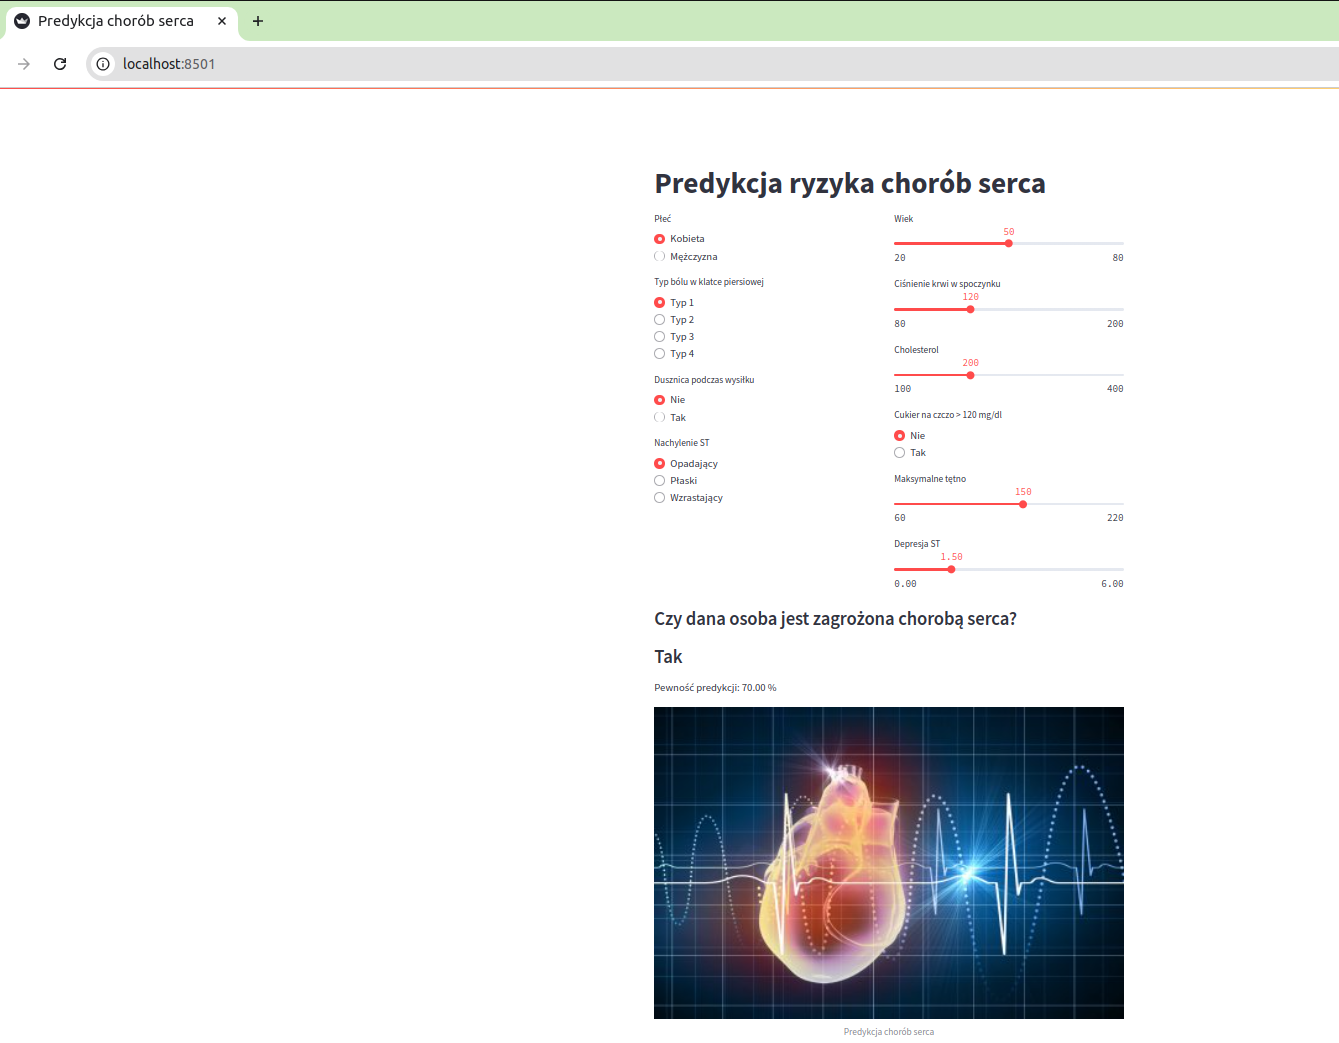
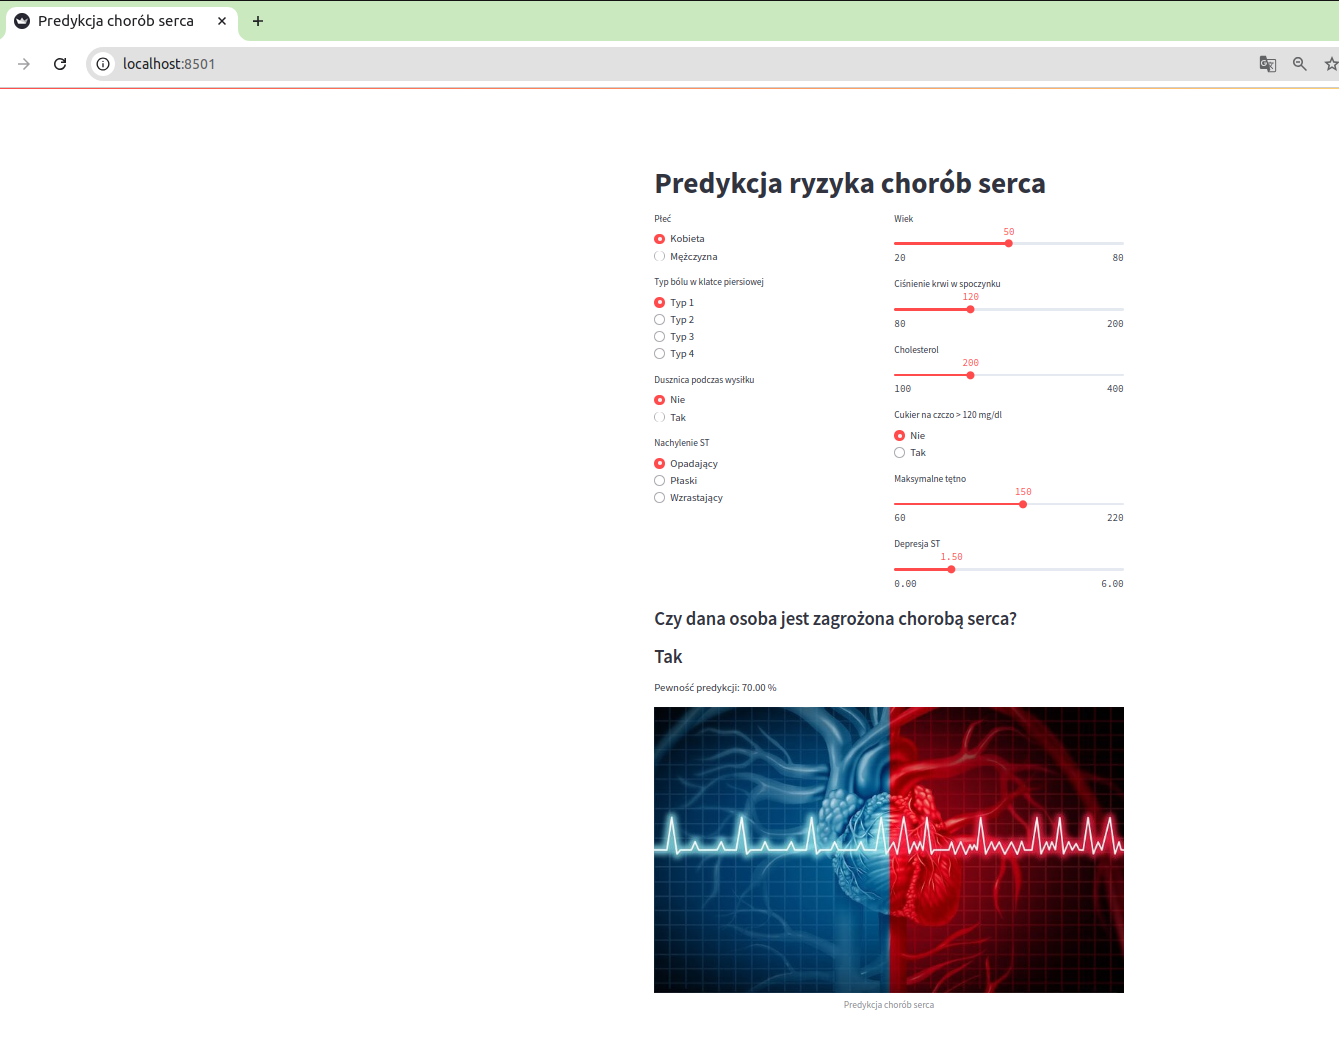
podmiana na dziąłajcy link http

Changed region(s): [[0.4899, 0.675, 0.8574, 1.0]]

diff --git a/Zadanie_4.2.py b/Zadanie_4.2.py
@@ -22,7 +22,7 @@ def main():
     left, right = st.columns(2)
     prediction = st.container()
 
-    st.image("https://www.malopolska.pl/_cache/news--2023/1700-956/fit/serce.jpg", caption="Predykcja chorób serca", use_container_width=True)
+    st.image("https://adst.mp.pl/img/articles/www/pacjent/poradnik_swiadomego_pacjenta/istock-947331372-640.jpg", caption="Predykcja chorób serca", use_container_width=True)
 
     with overview:
         st.title("Predykcja ryzyka chorób serca")
